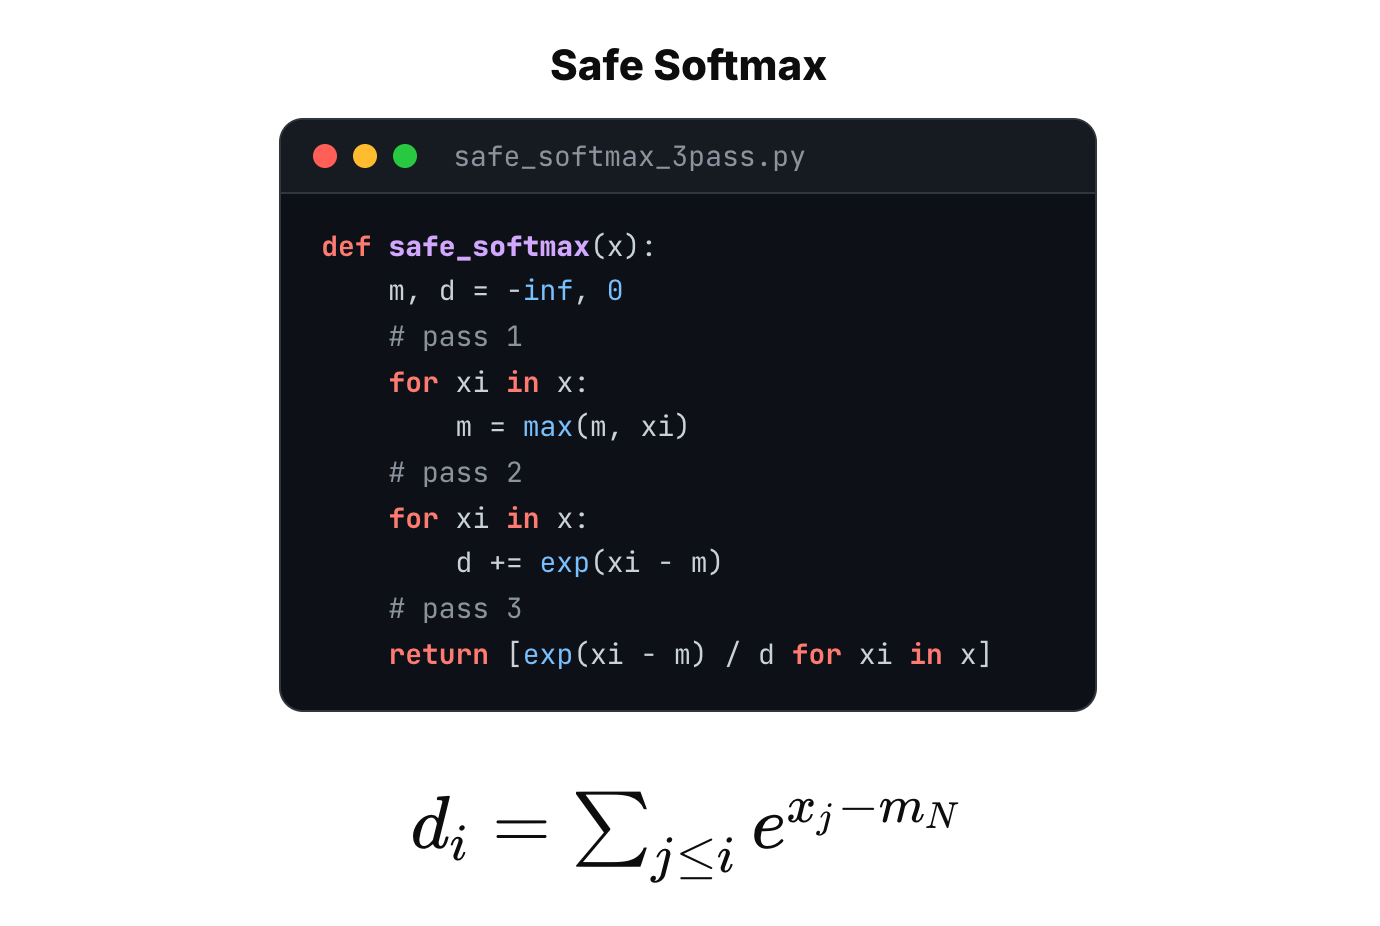
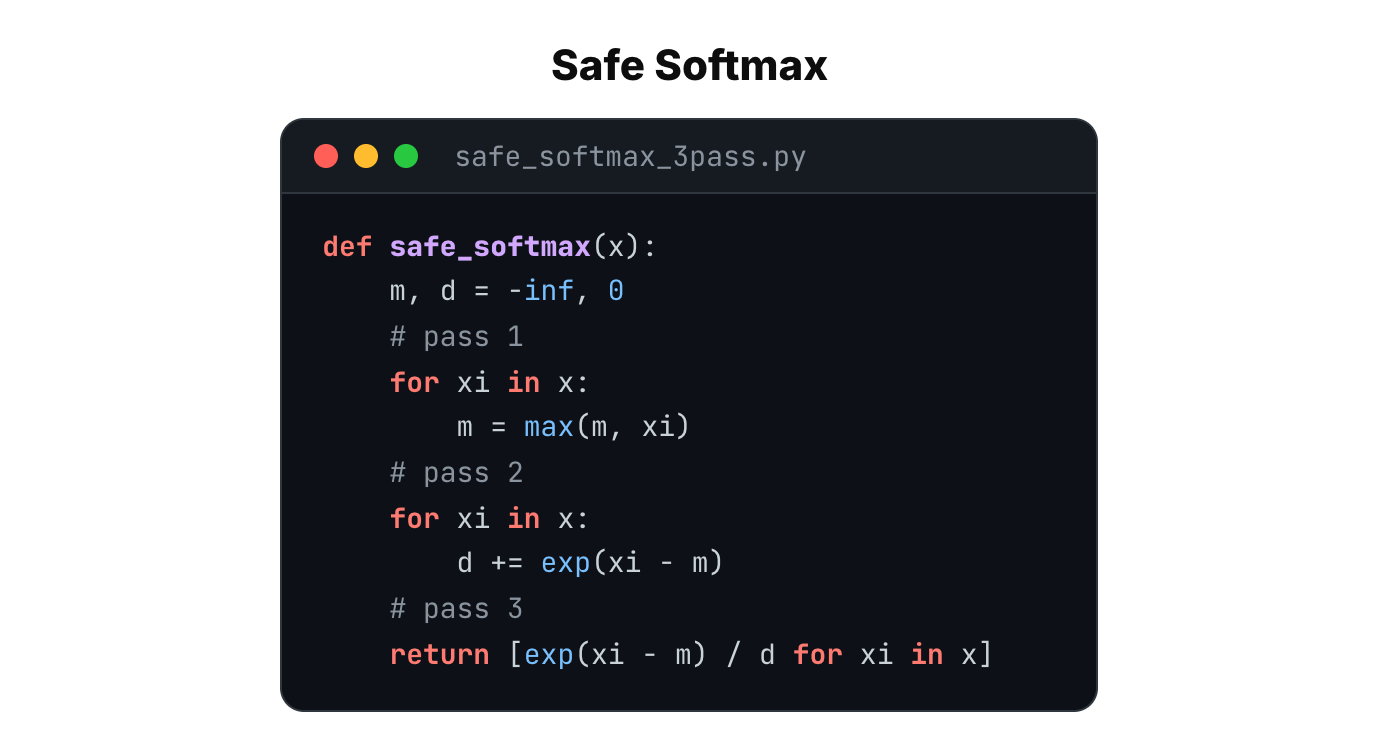
FlashAttention post: new title, split d_i/o_i formulas out of code images; add PagedAttention cover

diff --git a/content/posts/flash-attention/index.md b/content/posts/flash-attention/index.md
@@ -1,5 +1,5 @@
 ---
-title: "How FlashAttention Works: Same Math, Far Less Data Movement"
+title: "Why FlashAttention is So Fast"
 date: 2026-11-04T01:00:00+08:00
 tags: ["flash-attention", "attention", "gpu", "online-softmax", "inference"]
 summary: "FlashAttention does every multiplication standard attention does, yet runs several times faster. We build it up step by step from the GPU memory hierarchy: kernel fusion, safe softmax, online softmax, and tiling."
@@ -74,7 +74,11 @@ This is the fused kernel we were after. K and V are read from HBM only once, the
 
 Here's a straightforward implementation of safe softmax. It takes three passes. The first finds the row's maximum m. The second subtracts m from each value, takes the exponential and adds it into the denominator d. Only the third divides each term by d to produce the softmax. Here \(d_i\) is the sum of the first i terms, and every term subtracts the same baseline, \(m_N\), the maximum over the entire row. Since \(m_N\) is known only after scanning the whole row, the second pass can't start until the first one finishes.
 
-![Safe softmax in three passes; every term subtracts the global max m_N](t6_safe_softmax.png)
+![Safe softmax in three passes](t6_safe_softmax.png)
+
+$$
+d_i = \sum_{j\le i} e^{\,x_j-m_N}
+$$
 
 Is there a way to avoid all these passes? That's what online softmax does. If the global maximum \(m_N\) is what forces the extra pass, get rid of it. Redefine the denominator: let \(d'_i\) also be the sum of the first i terms, but have each term subtract \(m_i\), the maximum of the first i terms, instead of the global maximum. With that change, \(d'_i\) depends only on the first i terms, so it can be computed while scanning. And the \(d_N\) we ultimately need is the same thing as \(d'_N\), because at i = N the two definitions coincide.
 
@@ -104,6 +108,10 @@ Now let's apply online softmax to attention. That gives the code below, which ne
 ![Attention with online softmax: two passes over K and V](t7_attention_2pass.png)
 
 This version can't overflow, it's code that actually runs, and it needs only two passes compared with three for the naive approach. But can we go further? Look at how \(o_i\) is defined under safe softmax: every term uses the global maximum \(m_N\) and the global denominator \(d_N\). Doesn't that look a lot like \(d_i\) in the previous section? Can we use the same trick, redefining \(o_i\) so its terms no longer depend on the global maximum and the global denominator?
+
+$$
+\boldsymbol{o}_i = \sum_{j\le i}\frac{e^{\,x_j-m_N}}{d_N}\,\boldsymbol{v}_j
+$$
 
 We can. Define \(o'_i\) by replacing \(m_N\) and \(d_N\) with \(m_i\), the maximum of the first i terms, and \(d'_i\), the denominator of the first i terms. Now \(o'_i\) depends only on the first i terms, and the \(o_N\) we ultimately need is the same thing as \(o'_N\).
 

diff --git a/content/posts/paged-attention/index.md b/content/posts/paged-attention/index.md
@@ -5,6 +5,7 @@ tags: ["vllm", "paged-attention", "kv-cache", "prompt-caching", "inference"]
 summary: "Why serving LLMs fragments GPU memory, and how vLLM's PagedAttention fixes it with OS-style paging: physical blocks, a block table, chained block hashes, and a walkthrough of how blocks are allocated, shared, freed and evicted."
 math: true
 ShowToc: true
+images: ["posts/paged-attention/cover_en.png"]
 ---
 
 When I was digging into prompt caching in OpenAI's Codex, I noticed something odd: the number of cached tokens always went up in steps of 512. The reason is that before a prompt reaches the model, it gets cut into blocks of a fixed number of tokens, and both prefix matching and the KV cache work one block at a time.
